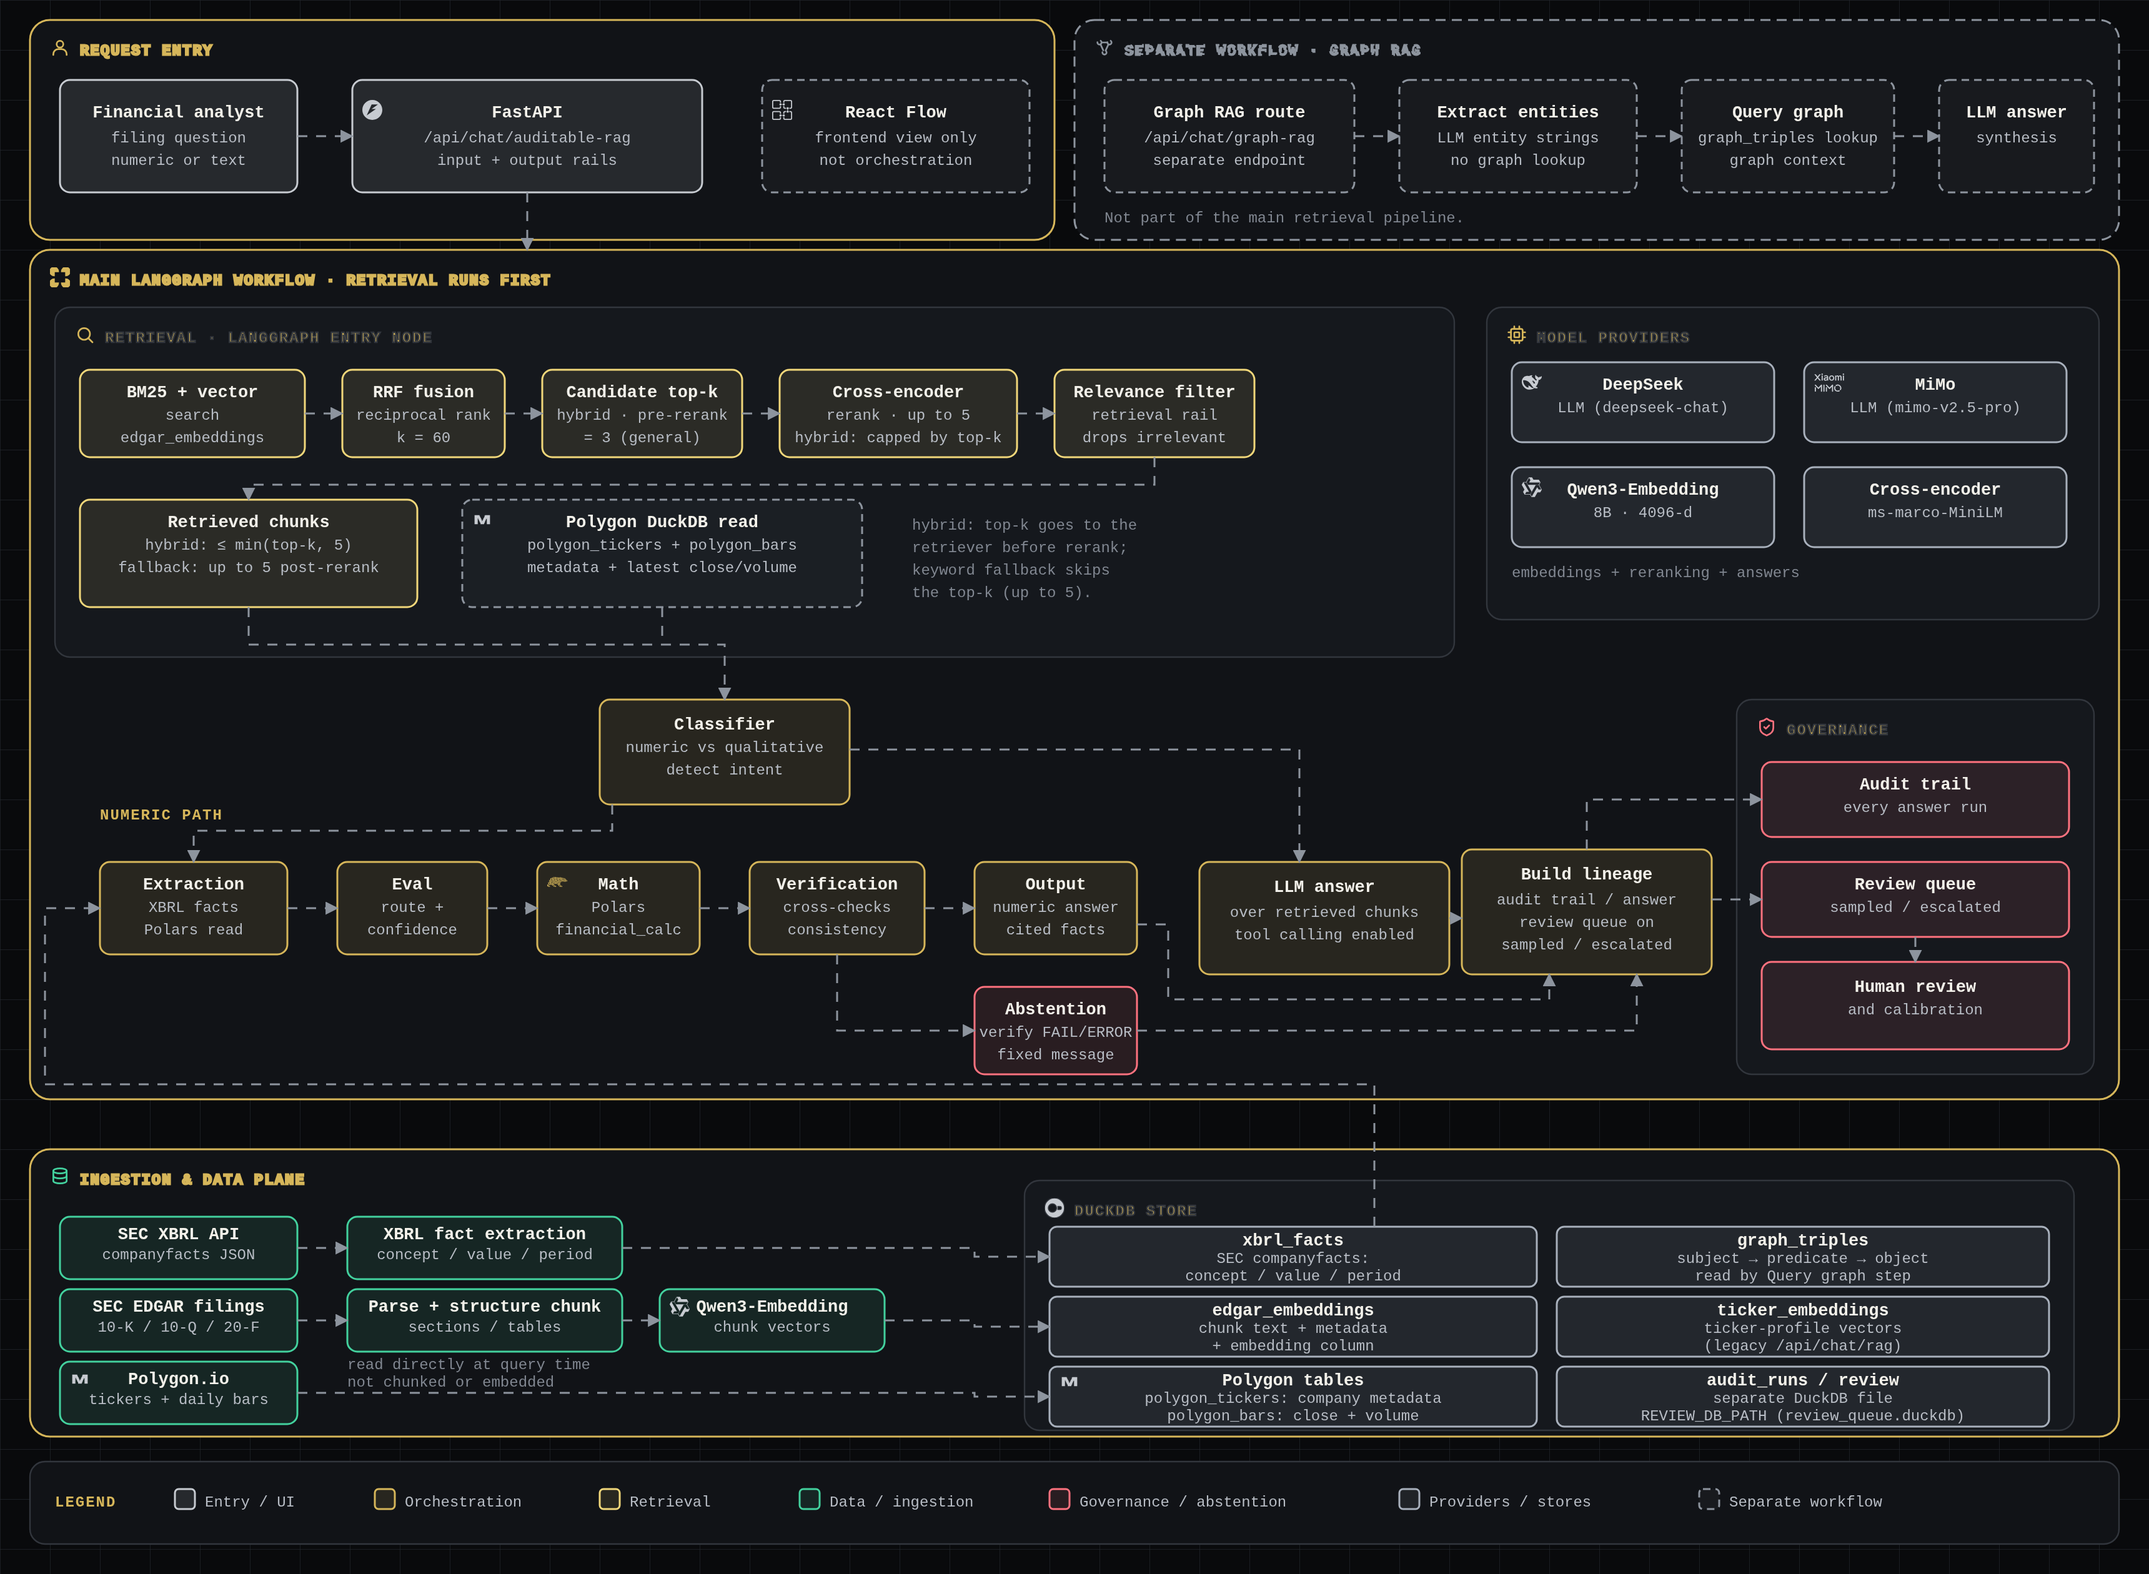
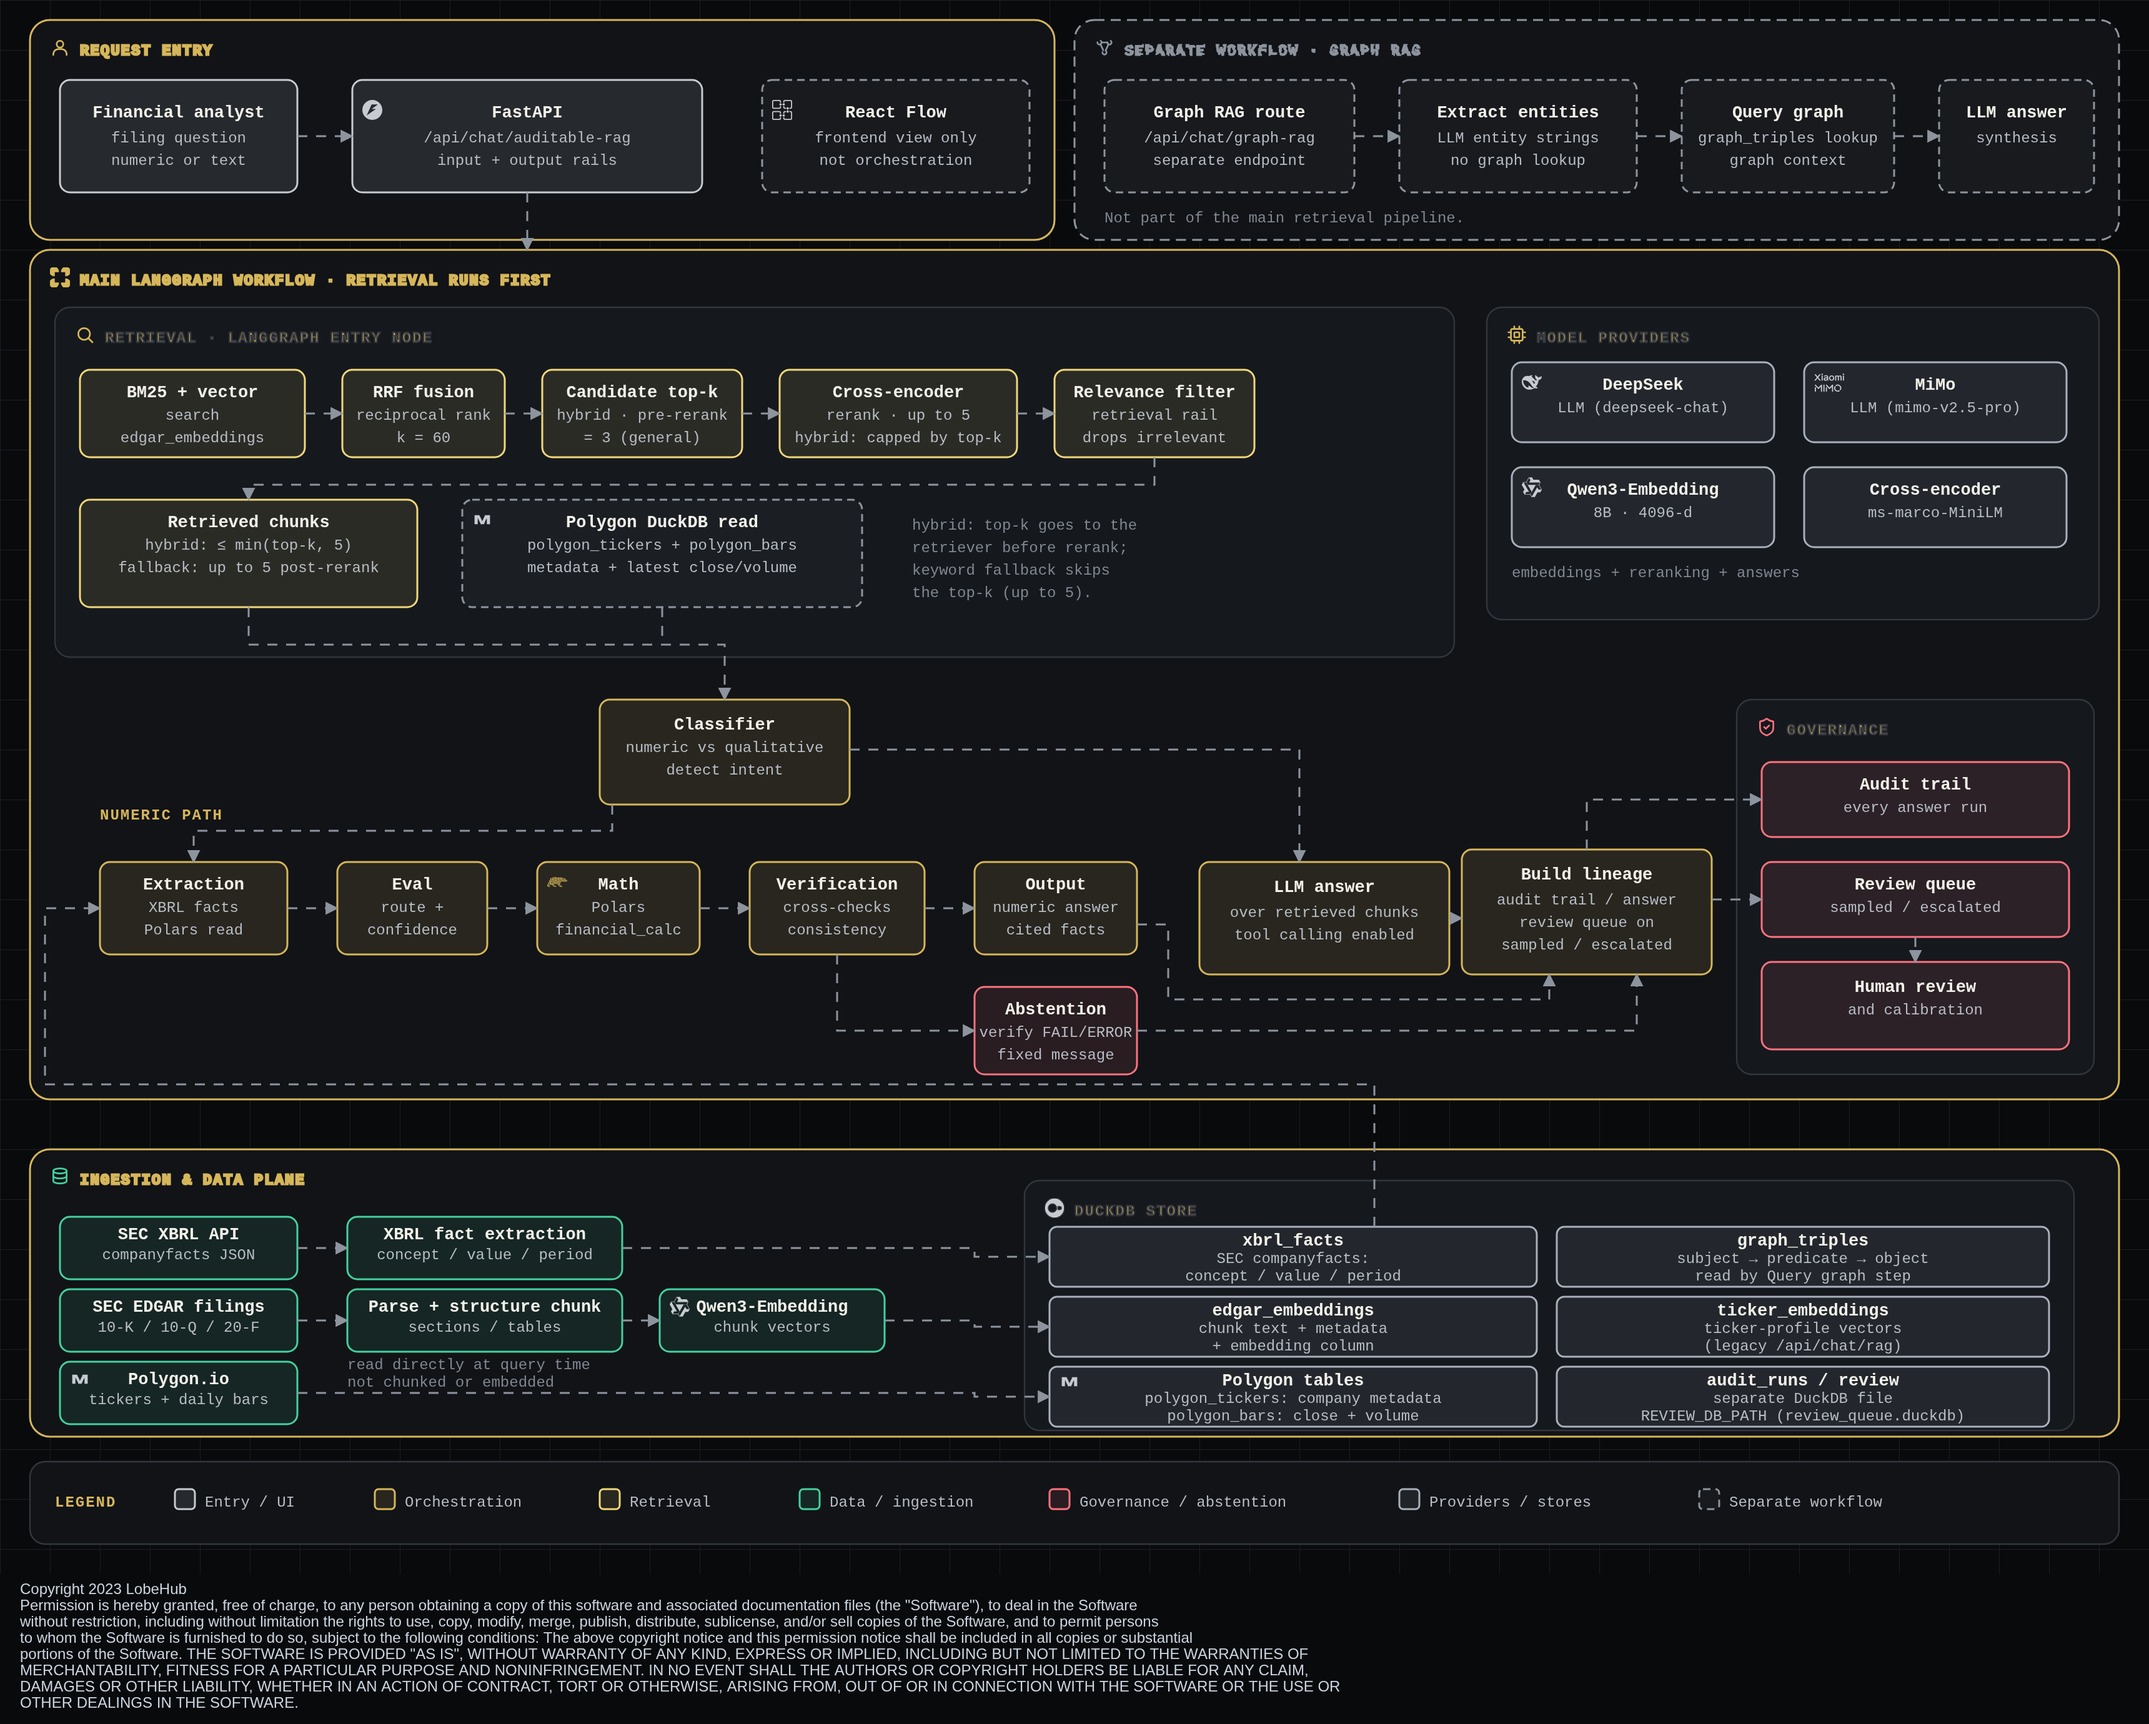
Preserve LobeHub license in diagram exports

diff --git a/docs/rag-process-architecture.html b/docs/rag-process-architecture.html
@@ -617,6 +617,16 @@
       const SVG_WIDTH = 1720;
       const SVG_HEIGHT = 1260;
       const XLINK = 'http://www.w3.org/1999/xlink';
+      const LOBEHUB_NOTICE = [
+        'Copyright 2023 LobeHub',
+        'Permission is hereby granted, free of charge, to any person obtaining a copy of this software and associated documentation files (the "Software"), to deal in the Software',
+        'without restriction, including without limitation the rights to use, copy, modify, merge, publish, distribute, sublicense, and/or sell copies of the Software, and to permit persons',
+        'to whom the Software is furnished to do so, subject to the following conditions: The above copyright notice and this permission notice shall be included in all copies or substantial',
+        'portions of the Software. THE SOFTWARE IS PROVIDED "AS IS", WITHOUT WARRANTY OF ANY KIND, EXPRESS OR IMPLIED, INCLUDING BUT NOT LIMITED TO THE WARRANTIES OF',
+        'MERCHANTABILITY, FITNESS FOR A PARTICULAR PURPOSE AND NONINFRINGEMENT. IN NO EVENT SHALL THE AUTHORS OR COPYRIGHT HOLDERS BE LIABLE FOR ANY CLAIM,',
+        'DAMAGES OR OTHER LIABILITY, WHETHER IN AN ACTION OF CONTRACT, TORT OR OTHERWISE, ARISING FROM, OUT OF OR IN CONNECTION WITH THE SOFTWARE OR THE USE OR',
+        'OTHER DEALINGS IN THE SOFTWARE.'
+      ];
 
       function setExportMenu(open) {
         const toolbar = document.querySelector('.toolbar');
@@ -635,6 +645,9 @@
         clone.setAttributeNS('http://www.w3.org/2000/xmlns/', 'xmlns:xlink', XLINK);
         clone.setAttribute('width', String(SVG_WIDTH));
         clone.setAttribute('height', String(SVG_HEIGHT));
+        const metadata = document.createElementNS('http://www.w3.org/2000/svg', 'metadata');
+        metadata.textContent = LOBEHUB_NOTICE.join('\n');
+        clone.prepend(metadata);
 
         clone.querySelectorAll('use').forEach(function (use) {
           const href = use.getAttribute('href');
@@ -655,12 +668,18 @@
             try {
               const canvas = document.createElement('canvas');
               canvas.width = SVG_WIDTH * (scale || PNG_SCALE);
-              canvas.height = SVG_HEIGHT * (scale || PNG_SCALE);
+              canvas.height = (SVG_HEIGHT + 120) * (scale || PNG_SCALE);
               const ctx = canvas.getContext('2d');
               if (!ctx) throw new Error('Canvas unavailable');
               ctx.fillStyle = '#090a0c';
               ctx.fillRect(0, 0, canvas.width, canvas.height);
-              ctx.drawImage(img, 0, 0, canvas.width, canvas.height);
+              ctx.drawImage(img, 0, 0, canvas.width, SVG_HEIGHT * (scale || PNG_SCALE));
+              ctx.scale(scale || PNG_SCALE, scale || PNG_SCALE);
+              ctx.fillStyle = '#cbd5e1';
+              ctx.font = '12px sans-serif';
+              LOBEHUB_NOTICE.forEach(function (line, index) {
+                ctx.fillText(line, 16, SVG_HEIGHT + 16 + index * 13);
+              });
               URL.revokeObjectURL(url);
               canvas.toBlob(function (blob) {
                 if (blob) resolve(blob);
